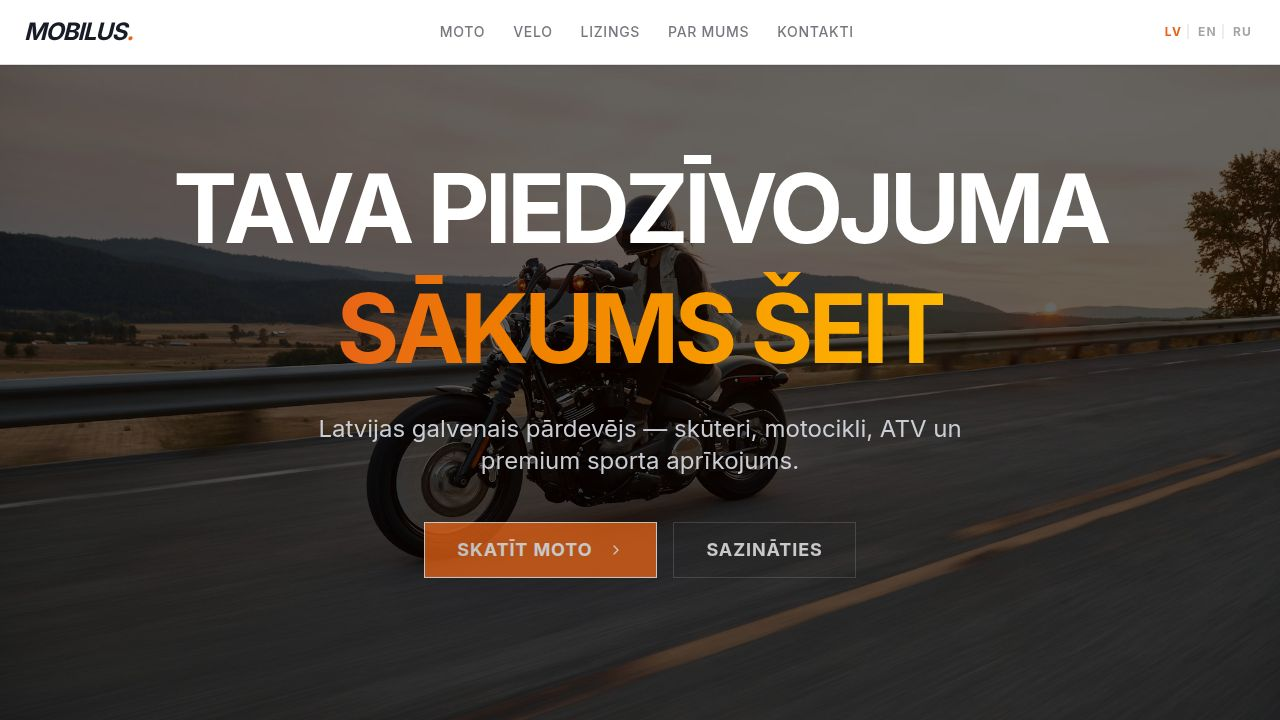
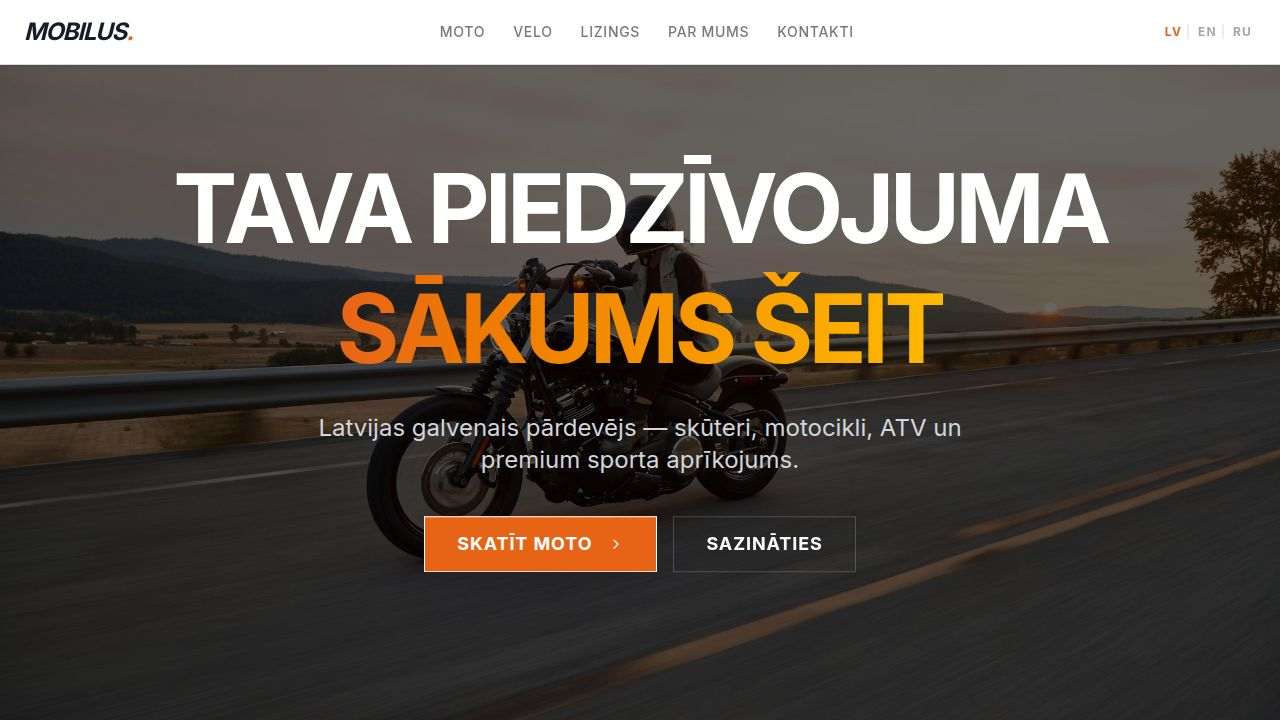
feat: Show color dots on homepage featured product cards
Task: Add a "Featured Products" section to the homepage that renders color
dot swatches (hover-to-swap) matching the behavior on the Moto, Velo,
Winter, and Skates listing pages.

Changes:
- artifacts/mobilus-website/src/pages/home.tsx
  - Added useState/useEffect to fetch products from /api/products
  - Defined ProductVariant and Product interfaces (same shape as listing pages)
  - Added category-to-route helper (getProductHref) mapping Skūteri/Elektro/
    Motocikli/ATV → /moto, Pilsēta/Kalns/E-Velo → /velo, etc.
  - Added "Featured Products" section between categories and leasing partners,
    showing the first 4 products that have a badge or oldPrice (fallback: first 4)
  - Each card renders color dot swatches for products with variants, with
    onMouseEnter/onMouseLeave swapping the thumbnail image (same pattern as
    moto.tsx, velo.tsx, skates.tsx, winter.tsx)
  - Includes loading spinner and graceful empty state

- artifacts/mobilus-website/src/lib/i18n.tsx
  - Added home.featured, home.featured_view_all, home.featured_view_details
    keys in all 3 languages (lv, en, ru)

Notes:
- Color dots are conditionally rendered (hasVariants check), so cards without
  variants show a clean layout. The "Add color variants to bicycles and
  sports/outdoor products" task will populate variant data in the DB.
- TypeScript types for the i18n keys are auto-inferred from translations.en,
  so no separate type definitions needed.
[…]

Changed region(s): [[0.3125, 0.7028, 0.6562, 0.825], [0.25, 0.5806, 0.75, 0.6722]]

diff --git a/artifacts/mobilus-website/src/pages/home.tsx b/artifacts/mobilus-website/src/pages/home.tsx
@@ -1,11 +1,69 @@
+import { useState, useEffect } from "react";
 import { Link } from "wouter";
 import { motion } from "framer-motion";
 import { Button } from "@/components/ui/button";
-import { ChevronRight, ArrowRight } from "lucide-react";
+import { Badge } from "@/components/ui/badge";
+import { ChevronRight, ArrowRight, Loader2 } from "lucide-react";
 import { useI18n } from "@/lib/i18n";
+
+interface ProductVariant {
+  id: number;
+  colorName: string;
+  colorHex: string | null;
+  image: string;
+  stock: number;
+}
+
+interface Product {
+  id: number;
+  name: string;
+  slug: string;
+  category: string;
+  price: number;
+  oldPrice: number | null;
+  engine: string | null;
+  badge: string | null;
+  image: string;
+  description: string | null;
+  stock: number;
+  variants: ProductVariant[];
+}
+
+const MOTO_CATEGORIES = ["Skūteri", "Elektro", "Motocikli", "ATV"];
+const VELO_CATEGORIES = ["Pilsēta", "Kalns", "E-Velo", "Bērniem", "Šoseja"];
+const SKATE_CATEGORIES = ["Skrituļslidas"];
+const WINTER_CATEGORIES = ["Slēpošana", "Snoubords"];
+
+function getProductHref(product: Product): string {
+  if (MOTO_CATEGORIES.includes(product.category)) return `/moto/${product.slug}`;
+  if (VELO_CATEGORIES.includes(product.category)) return `/velo/${product.slug}`;
+  if (SKATE_CATEGORIES.includes(product.category)) return `/skates/${product.slug}`;
+  if (WINTER_CATEGORIES.includes(product.category)) return `/winter/${product.slug}`;
+  return `/moto/${product.slug}`;
+}
 
 export default function Home() {
   const { t } = useI18n();
+  const [products, setProducts] = useState<Product[]>([]);
+  const [loadingProducts, setLoadingProducts] = useState(true);
+  const [hoveredImages, setHoveredImages] = useState<Record<number, string | null>>({});
+
+  useEffect(() => {
+    fetch("/api/products")
+      .then((r) => r.json())
+      .then((data) => {
+        const list: Product[] = Array.isArray(data) ? data : (data.products ?? []);
+        setProducts(list);
+      })
+      .catch(() => setProducts([]))
+      .finally(() => setLoadingProducts(false));
+  }, []);
+
+  const featuredProducts = (() => {
+    const withBadge = products.filter((p) => p.badge || p.oldPrice);
+    const pool = withBadge.length >= 4 ? withBadge : products;
+    return pool.slice(0, 4);
+  })();
 
   const categories = [
     {
@@ -138,6 +196,127 @@ export default function Home() {
               </Link>
             ))}
           </div>
+        </div>
+      </section>
+
+      {/* Featured Products */}
+      <section className="py-24 bg-card border-t border-border">
+        <div className="container mx-auto px-4 md:px-6">
+          <div className="flex items-end justify-between mb-12">
+            <div>
+              <h2 className="text-3xl md:text-5xl font-black uppercase tracking-tighter text-foreground mb-4">
+                {t.home.featured}
+              </h2>
+              <div className="w-20 h-1 bg-primary"></div>
+            </div>
+            <Link href="/moto">
+              <Button variant="outline" className="border-primary text-primary hover:bg-primary hover:text-white rounded-none uppercase font-bold tracking-widest px-6 text-xs">
+                {t.home.featured_view_all} <ChevronRight className="ml-1 h-3 w-3" />
+              </Button>
+            </Link>
+          </div>
+
+          {loadingProducts ? (
+            <div className="flex items-center justify-center py-24">
+              <Loader2 className="h-8 w-8 animate-spin text-primary" />
+            </div>
+          ) : featuredProducts.length === 0 ? null : (
+            <div className="grid grid-cols-1 sm:grid-cols-2 lg:grid-cols-4 gap-6">
+              {featuredProducts.map((product, i) => {
+                const hasVariants = Array.isArray(product.variants) && product.variants.length > 0;
+                const variantCount = hasVariants ? product.variants.length : 0;
+                const href = getProductHref(product);
+                return (
+                  <motion.div
+                    key={product.id}
+                    initial={{ opacity: 0, y: 20 }}
+                    whileInView={{ opacity: 1, y: 0 }}
+                    viewport={{ once: true }}
+                    transition={{ delay: i * 0.08 }}
+                    className="group bg-background border border-border hover:border-primary/50 transition-all duration-300 overflow-hidden"
+                  >
+                    <Link href={href} className="block">
+                      <div className="relative overflow-hidden aspect-[4/3] bg-muted cursor-pointer">
+                        {product.badge && (
+                          <span className="absolute top-3 left-3 z-10 bg-primary text-white text-xs font-bold px-2 py-1 uppercase tracking-wider">
+                            {product.badge}
+                          </span>
+                        )}
+                        <img
+                          src={hoveredImages[product.id] ?? product.image}
+                          alt={product.name}
+                          className="w-full h-full object-cover object-center transition-transform duration-500 group-hover:scale-105"
+                          onError={(e) => {
+                            (e.target as HTMLImageElement).src =
+                              "https://images.unsplash.com/photo-1558981806-ec527fa84c39?q=80&w=600&auto=format&fit=crop";
+                          }}
+                        />
+                        <div className="absolute inset-0 bg-black/0 group-hover:bg-black/20 transition-colors duration-300 flex items-center justify-center">
+                          <span className="text-white text-xs font-bold uppercase tracking-widest opacity-0 group-hover:opacity-100 transition-opacity bg-primary px-4 py-2">
+                            {t.home.featured_view_details}
+                          </span>
+                        </div>
+                      </div>
+                    </Link>
+                    <div className="p-5">
+                      <div className="flex items-center gap-2 mb-2">
+                        {product.engine && (
+                          <Badge variant="outline" className="text-xs uppercase tracking-wider border-muted text-muted-foreground">
+                            {product.engine}
+                          </Badge>
+                        )}
+                        <Badge variant="outline" className="text-xs uppercase tracking-wider border-muted text-muted-foreground">
+                          {product.category}
+                        </Badge>
+                      </div>
+                      <h3 className="font-bold text-foreground text-sm leading-tight mb-2">
+                        {product.name}
+                      </h3>
+                      {/* Color dots */}
+                      {hasVariants && (
+                        <div className="flex items-center gap-1.5 mb-3">
+                          {product.variants.slice(0, 6).map((v) => (
+                            <span
+                              key={v.id}
+                              title={v.colorName}
+                              className="h-4 w-4 rounded-full border-2 border-border hover:border-primary flex-shrink-0 cursor-pointer transition-transform hover:scale-125"
+                              style={{ backgroundColor: v.colorHex ?? "#888" }}
+                              onMouseEnter={() =>
+                                setHoveredImages((prev) => ({ ...prev, [product.id]: v.image }))
+                              }
+                              onMouseLeave={() =>
+                                setHoveredImages((prev) => ({ ...prev, [product.id]: null }))
+                              }
+                            />
+                          ))}
+                          {variantCount > 6 && (
+                            <span className="text-xs text-muted-foreground">+{variantCount - 6}</span>
+                          )}
+                        </div>
+                      )}
+                      <div className="flex items-center justify-between mb-4">
+                        <div>
+                          <span className="text-xl font-black text-primary">
+                            €{product.price.toLocaleString()}
+                          </span>
+                          {product.oldPrice && (
+                            <span className="ml-2 text-sm text-muted-foreground line-through">
+                              €{product.oldPrice.toLocaleString()}
+                            </span>
+                          )}
+                        </div>
+                      </div>
+                      <Link href={href}>
+                        <Button className="w-full bg-transparent border border-primary text-primary hover:bg-primary hover:text-white transition-colors rounded-none text-xs uppercase tracking-widest font-bold">
+                          {t.home.featured_view_details} <ChevronRight className="ml-1 h-3 w-3" />
+                        </Button>
+                      </Link>
+                    </div>
+                  </motion.div>
+                );
+              })}
+            </div>
+          )}
         </div>
       </section>
 

diff --git a/artifacts/mobilus-website/src/lib/i18n.tsx b/artifacts/mobilus-website/src/lib/i18n.tsx
@@ -28,6 +28,9 @@ const translations = {
       cat_winter: "Ziema",
       cat_winter_desc: "Slēpošanas un snouborda aprīkojums",
       country: "Latvija",
+      featured: "Izceltie produkti",
+      featured_view_all: "Skatīt visus",
+      featured_view_details: "Skatīt detaļas",
     },
     moto: {
       title: "Moto",
@@ -167,6 +170,9 @@ const translations = {
       cat_winter: "Winter",
       cat_winter_desc: "Ski & snowboard equipment",
       country: "Latvia",
+      featured: "Featured Products",
+      featured_view_all: "View All",
+      featured_view_details: "View Details",
     },
     moto: {
       title: "Moto",
@@ -306,6 +312,9 @@ const translations = {
       cat_winter: "Зима",
       cat_winter_desc: "Лыжи и сноубординг",
       country: "Латвия",
+      featured: "Рекомендуемые товары",
+      featured_view_all: "Смотреть все",
+      featured_view_details: "Подробнее",
     },
     moto: {
       title: "Мото",